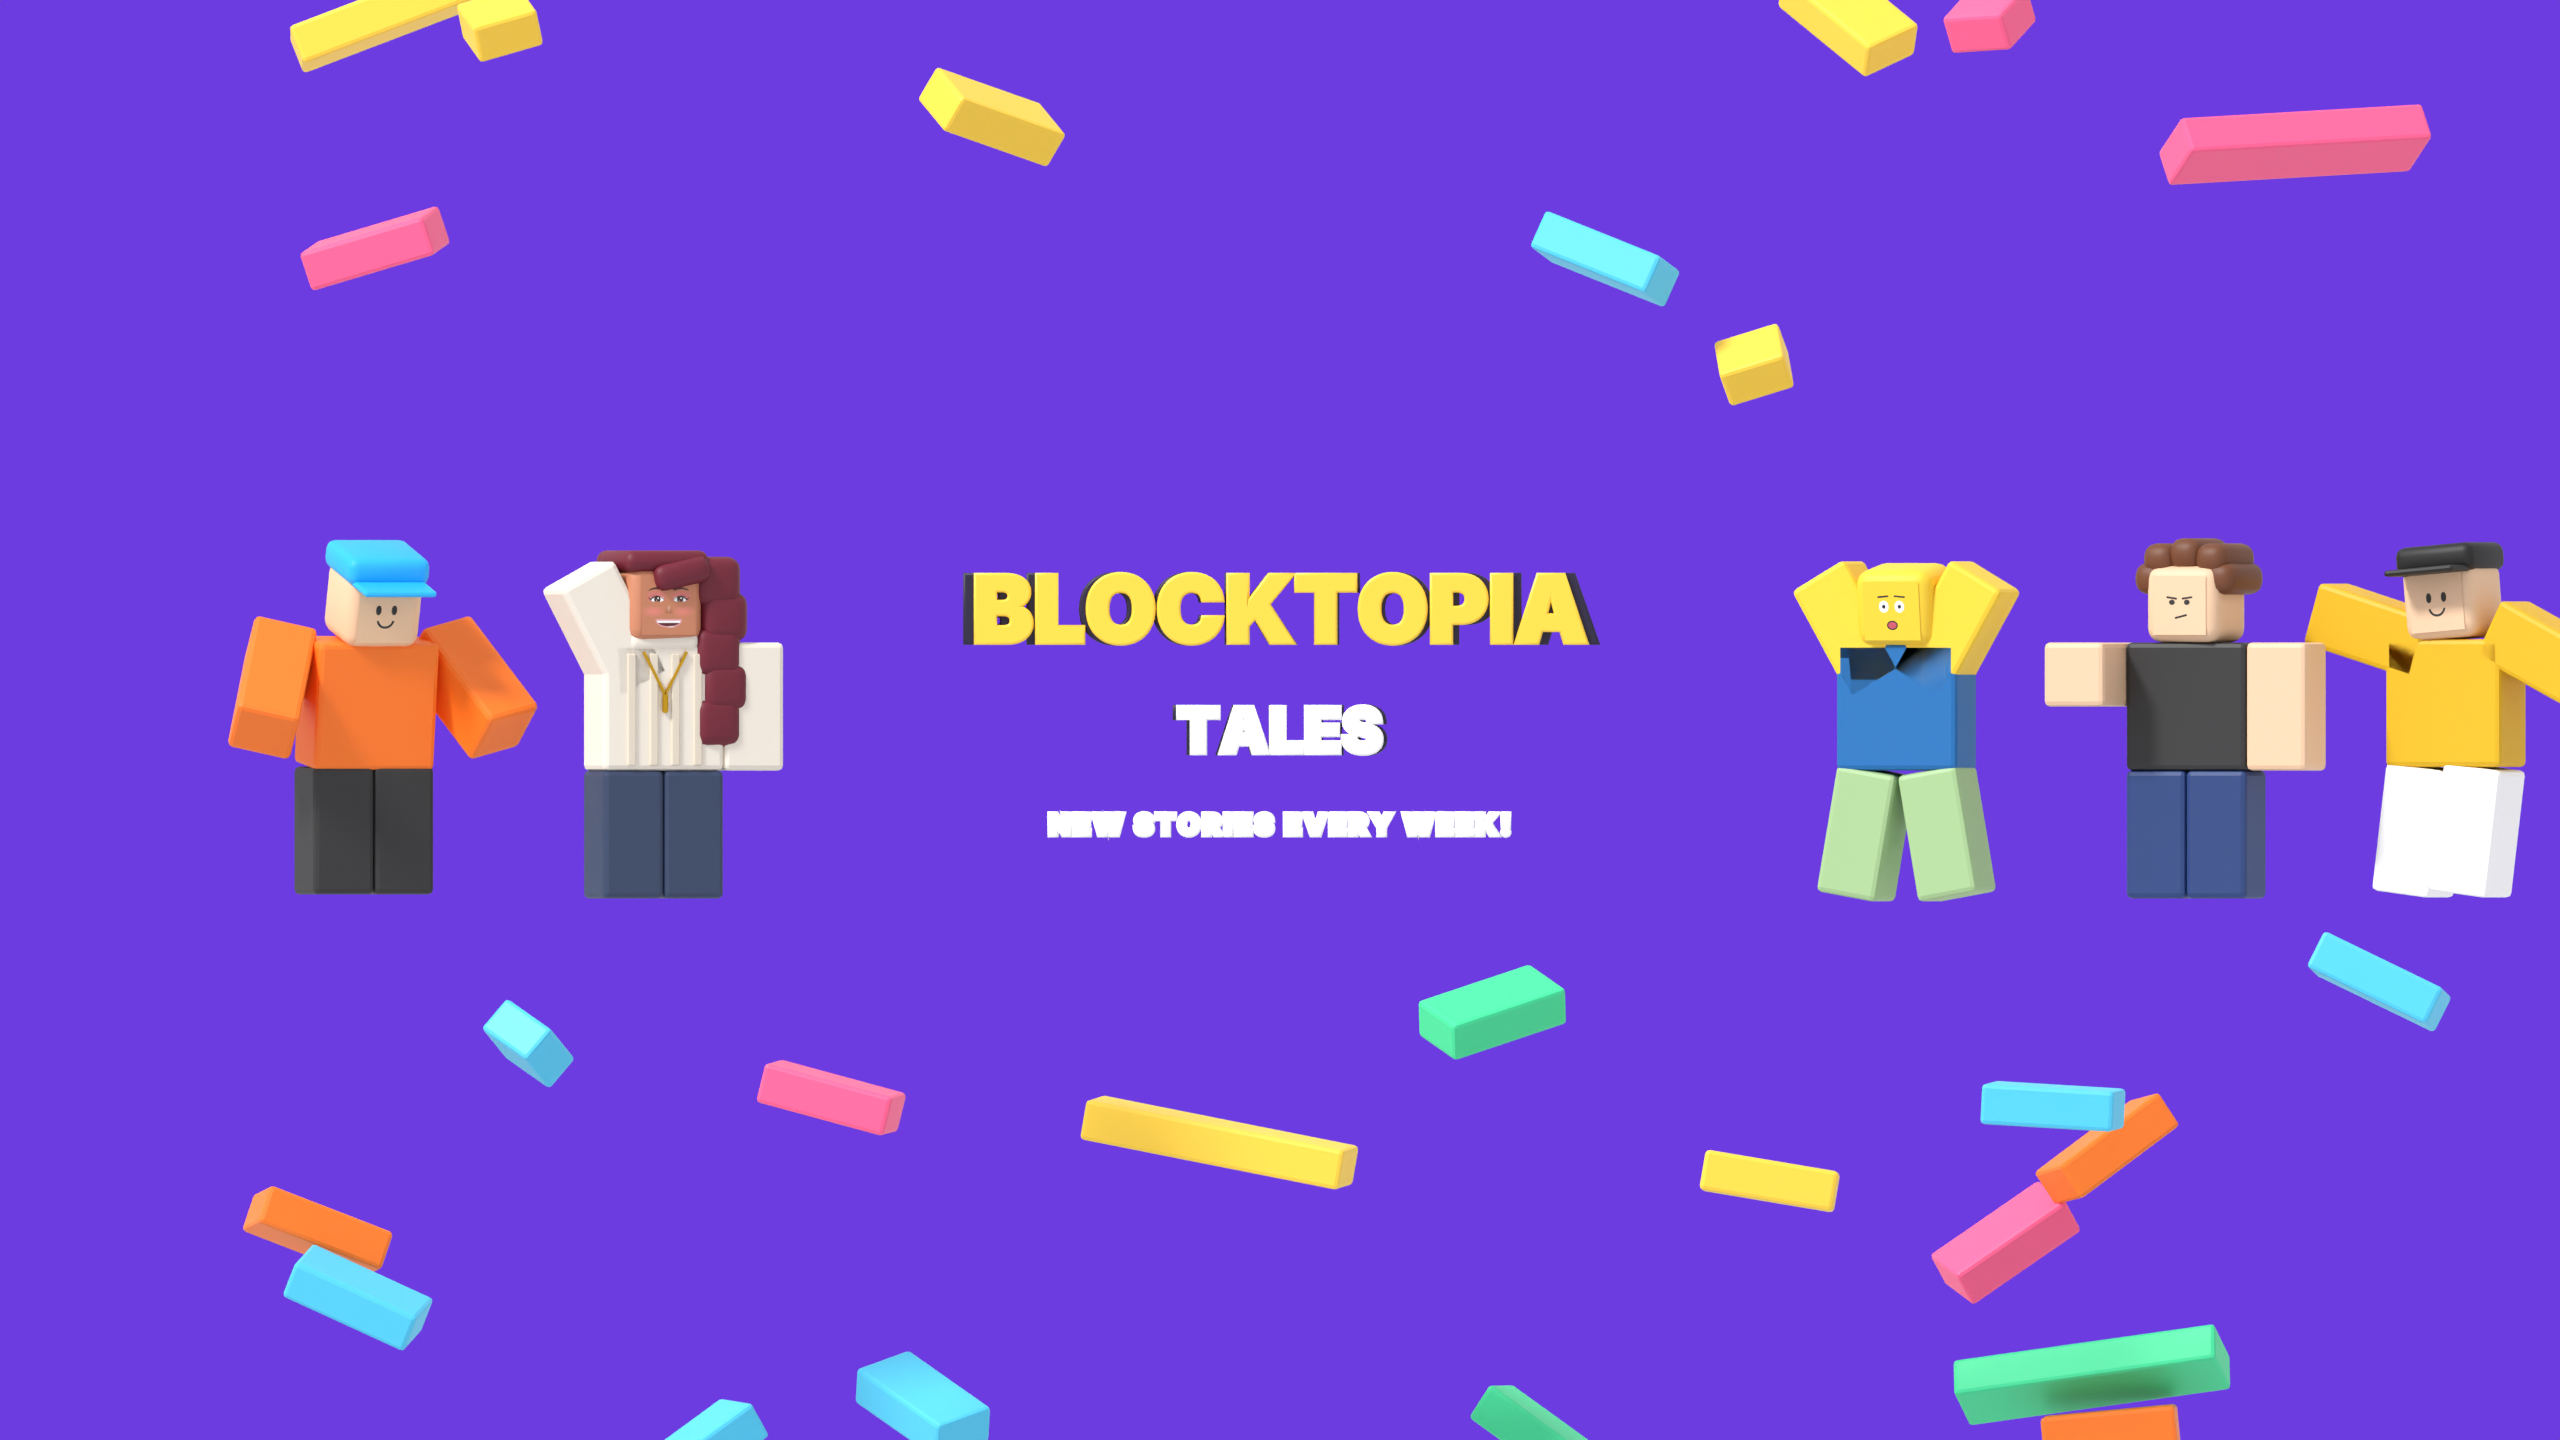
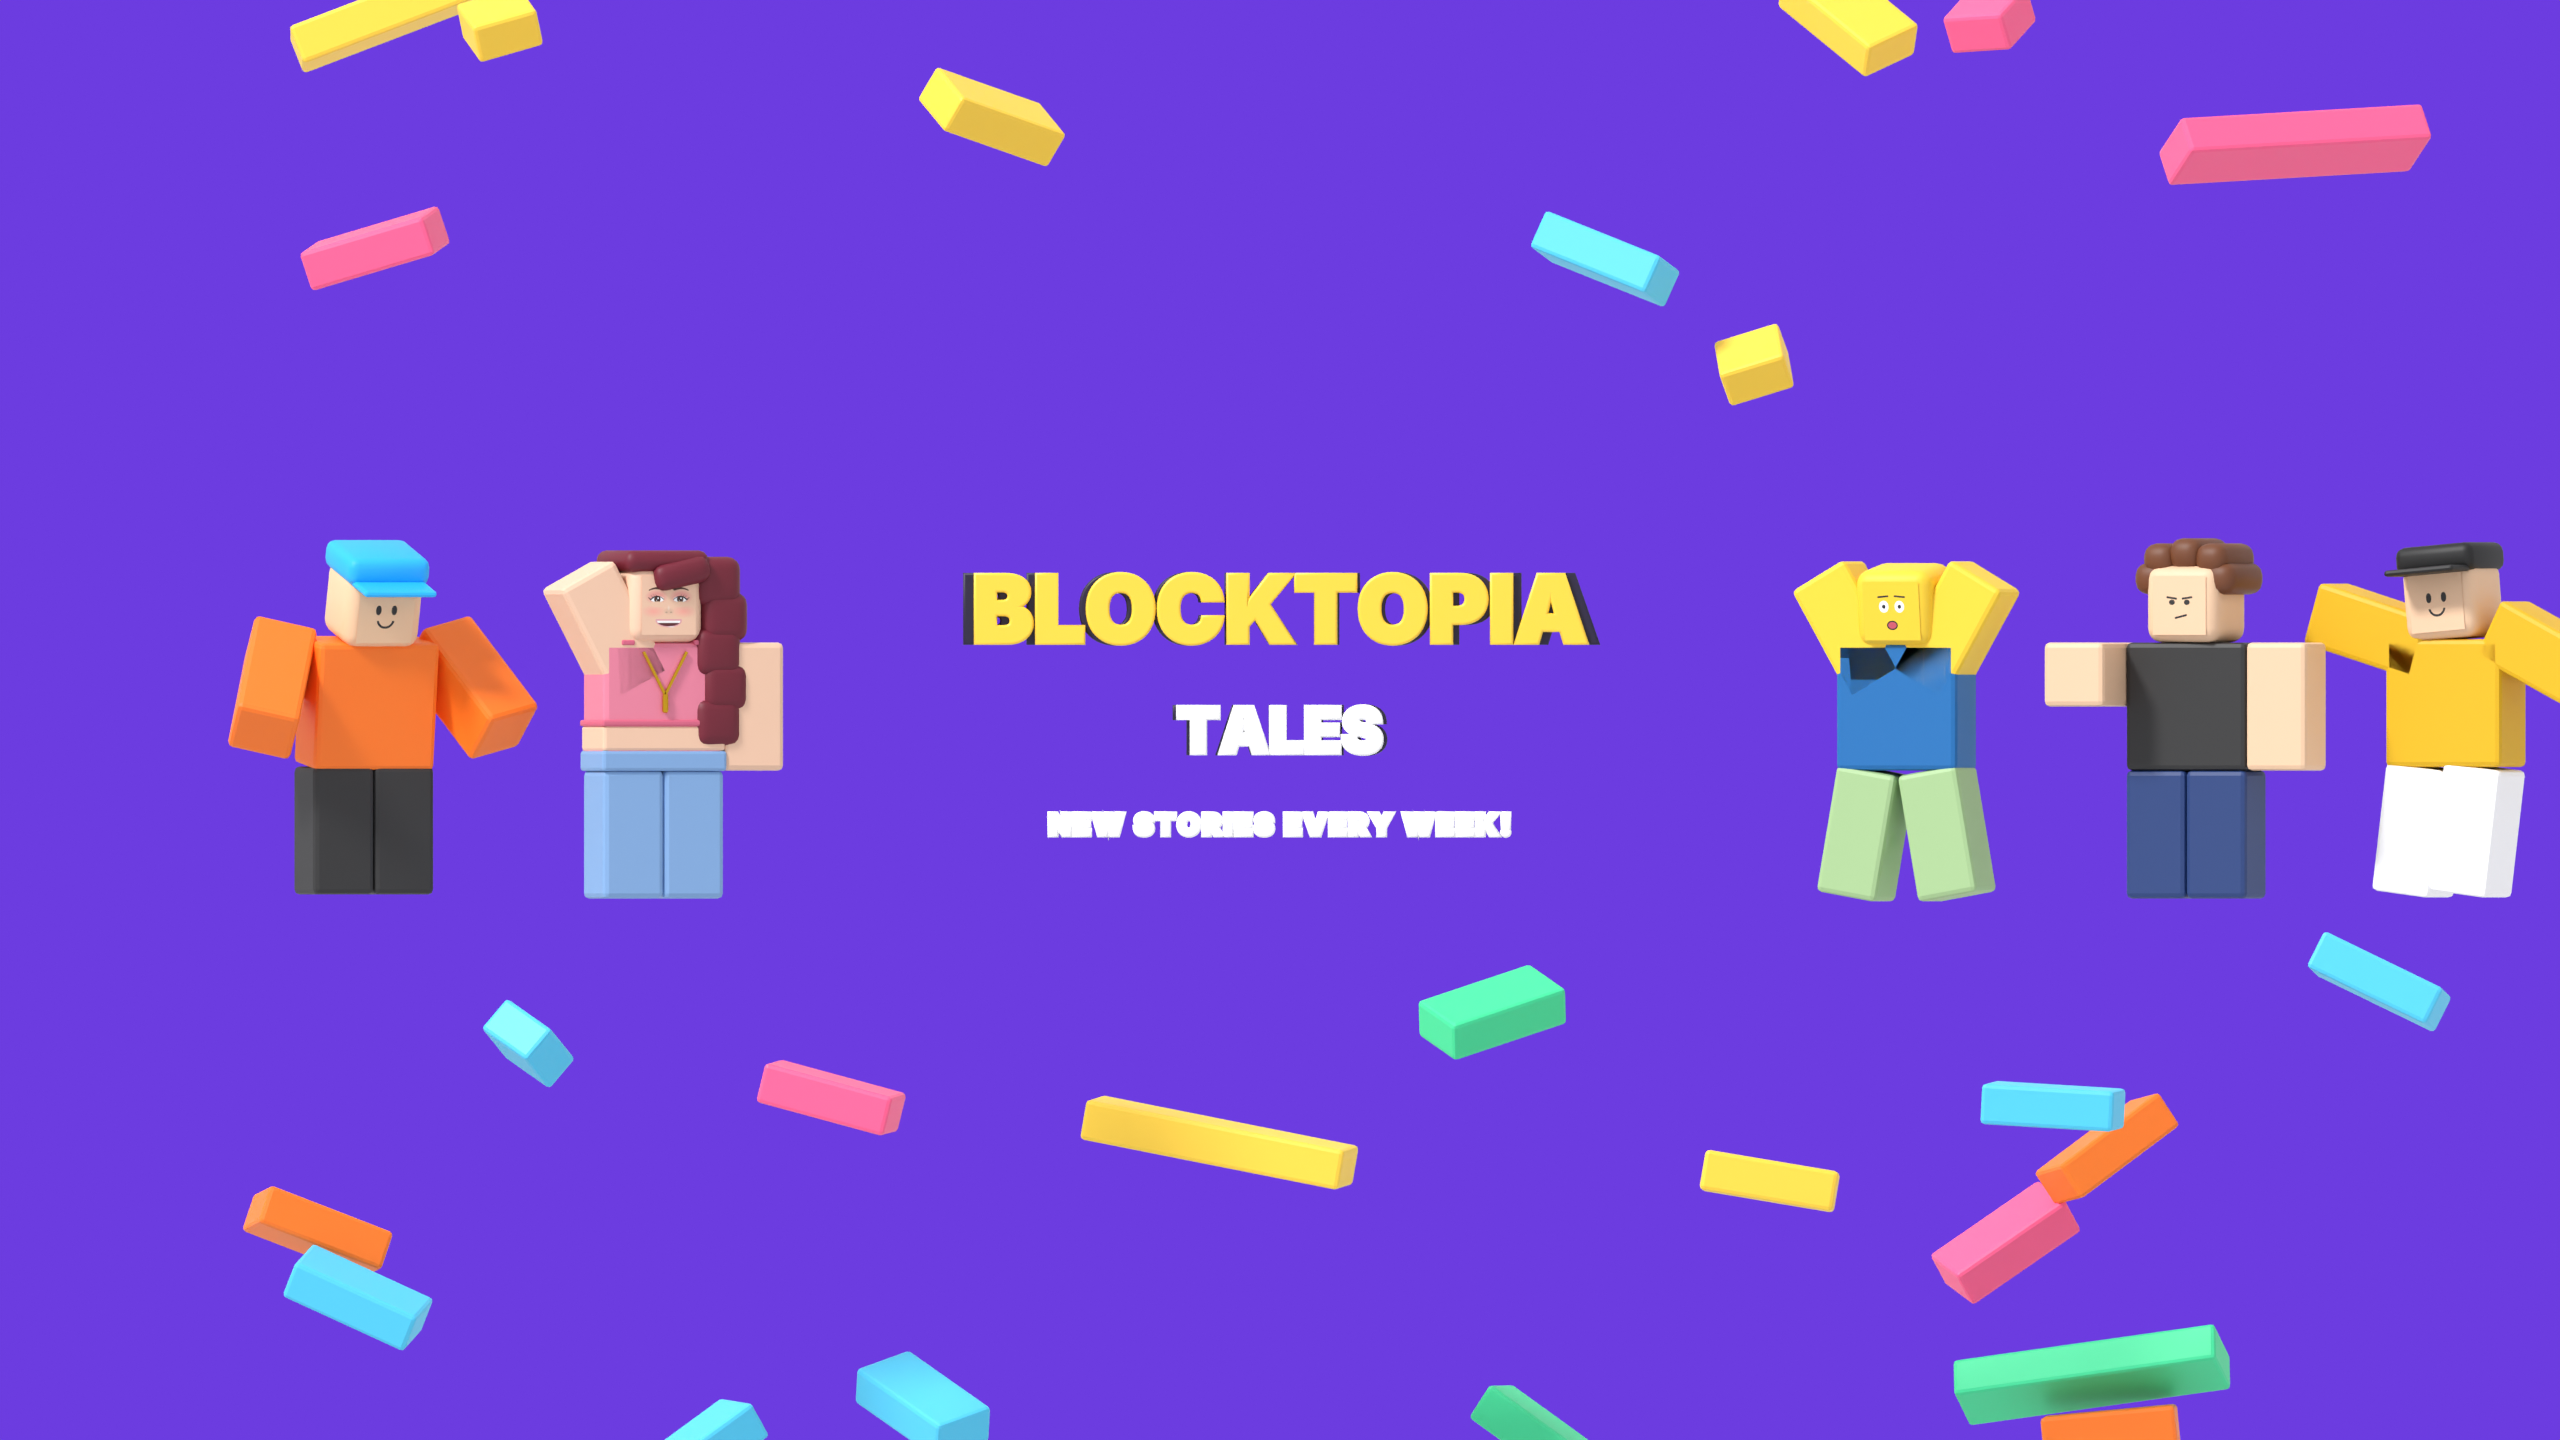
Sage: fair complexion and new outfit (crop top, high-waisted jeans)
Claude-Session: https://claude.ai/code/session_01J3XbAiCneoB6BvaKg4KW12

Changed region(s): [[0.1875, 0.375, 0.3125, 0.625]]

diff --git a/pipeline/blender/rig.py b/pipeline/blender/rig.py
@@ -386,6 +386,14 @@ def build_character(name, spec, faces_dir):
         else:  # block
             add_obj(f"{name}_hairtop", box_mesh("ht", (1.35, 1.3, 0.4)), head, (0, 0.05, 1.28), hm, bevel=0.15)
 
+    if spec.get("crop_top"):
+        # bare midriff band between the top and high-waisted pants, plus a waistband
+        add_obj(f"{name}_midriff", box_mesh("md", (2.03, 1.03, 0.4)), torso, (0, 0, 0.5), skin, bevel=0.05)
+        add_obj(f"{name}_waist", box_mesh("wb", (2.07, 1.07, 0.32)), torso, (0, 0, 0.15), pants, bevel=0.05)
+        trim = make_material(f"{name}_trim", spec["crop_top"])
+        add_obj(f"{name}_hem", box_mesh("hm", (2.07, 1.07, 0.1)), torso, (0, 0, 0.74), trim, bevel=0.03)
+        for x in (-0.6, 0.6):  # thin straps over the shoulders
+            add_obj(f"{name}_strap{x}", box_mesh("st", (0.22, 1.04, 0.08)), torso, (x, 0, 2.0), trim, bevel=0.02)
     if spec.get("turtleneck"):
         add_obj(f"{name}_collar", box_mesh("tn", (1.2, 1.08, 0.34)), torso, (0, 0, 2.02), shirt,
                 bevel=0.14, segments=3)
